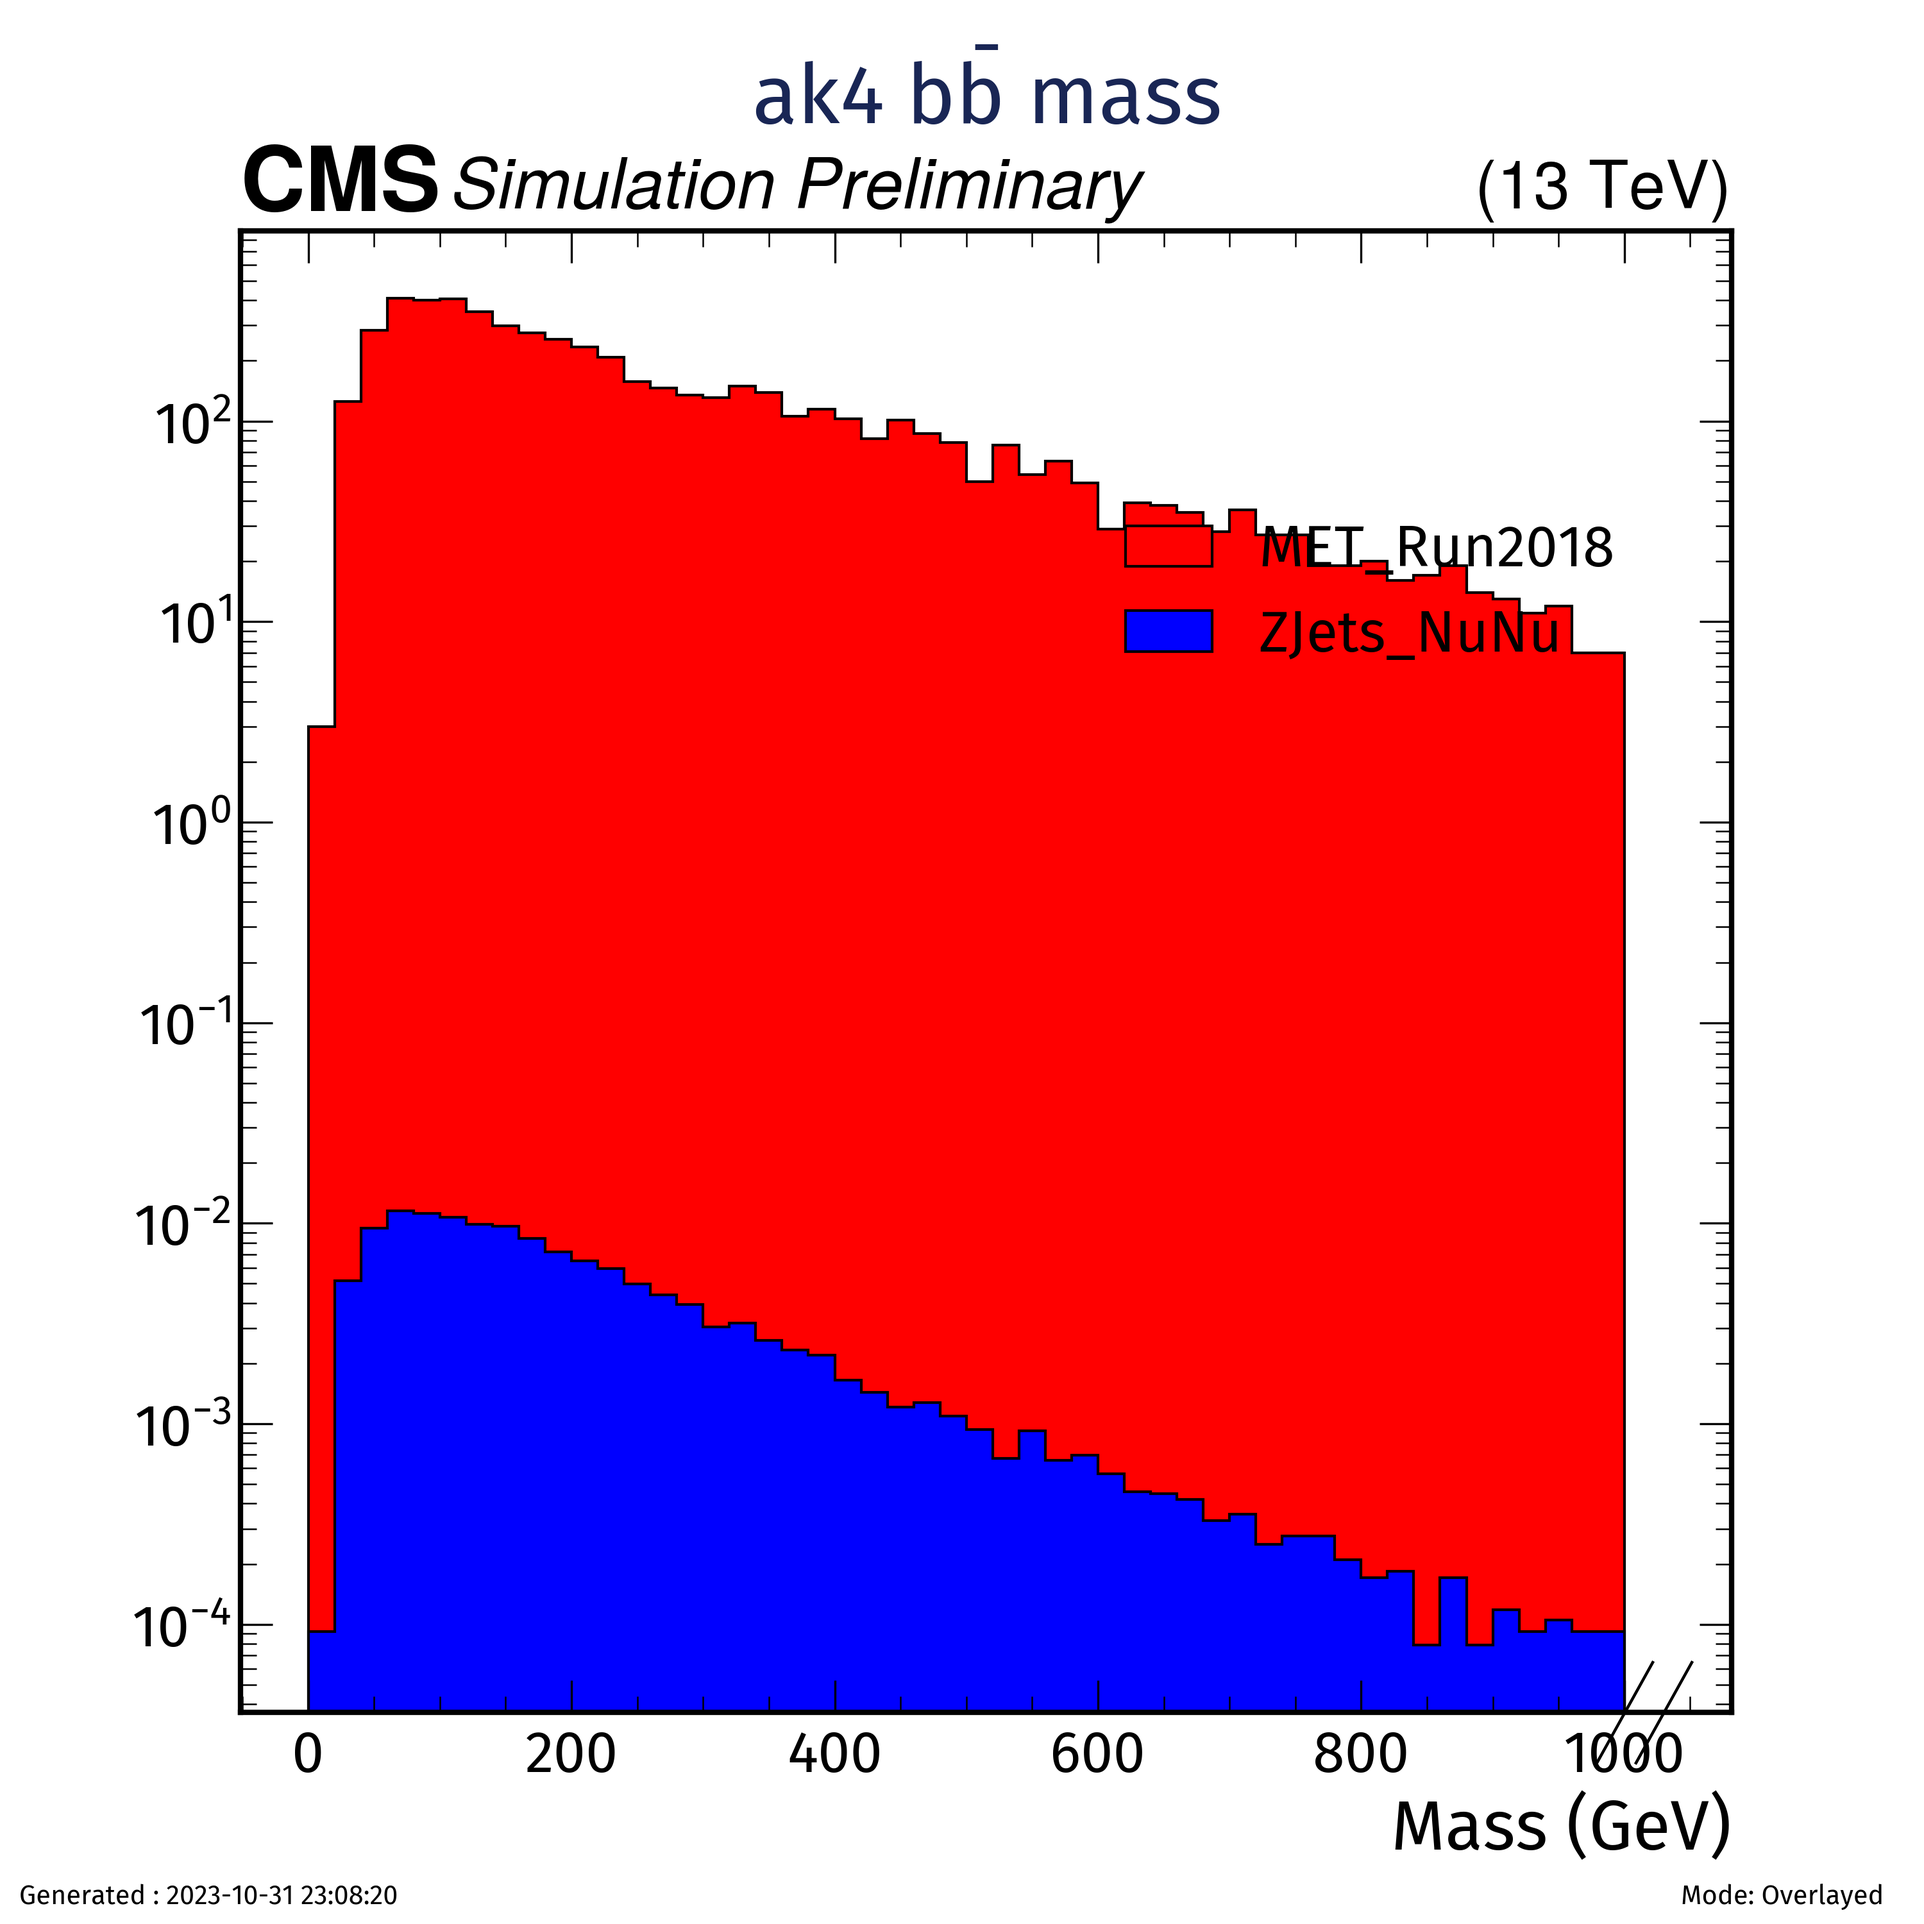
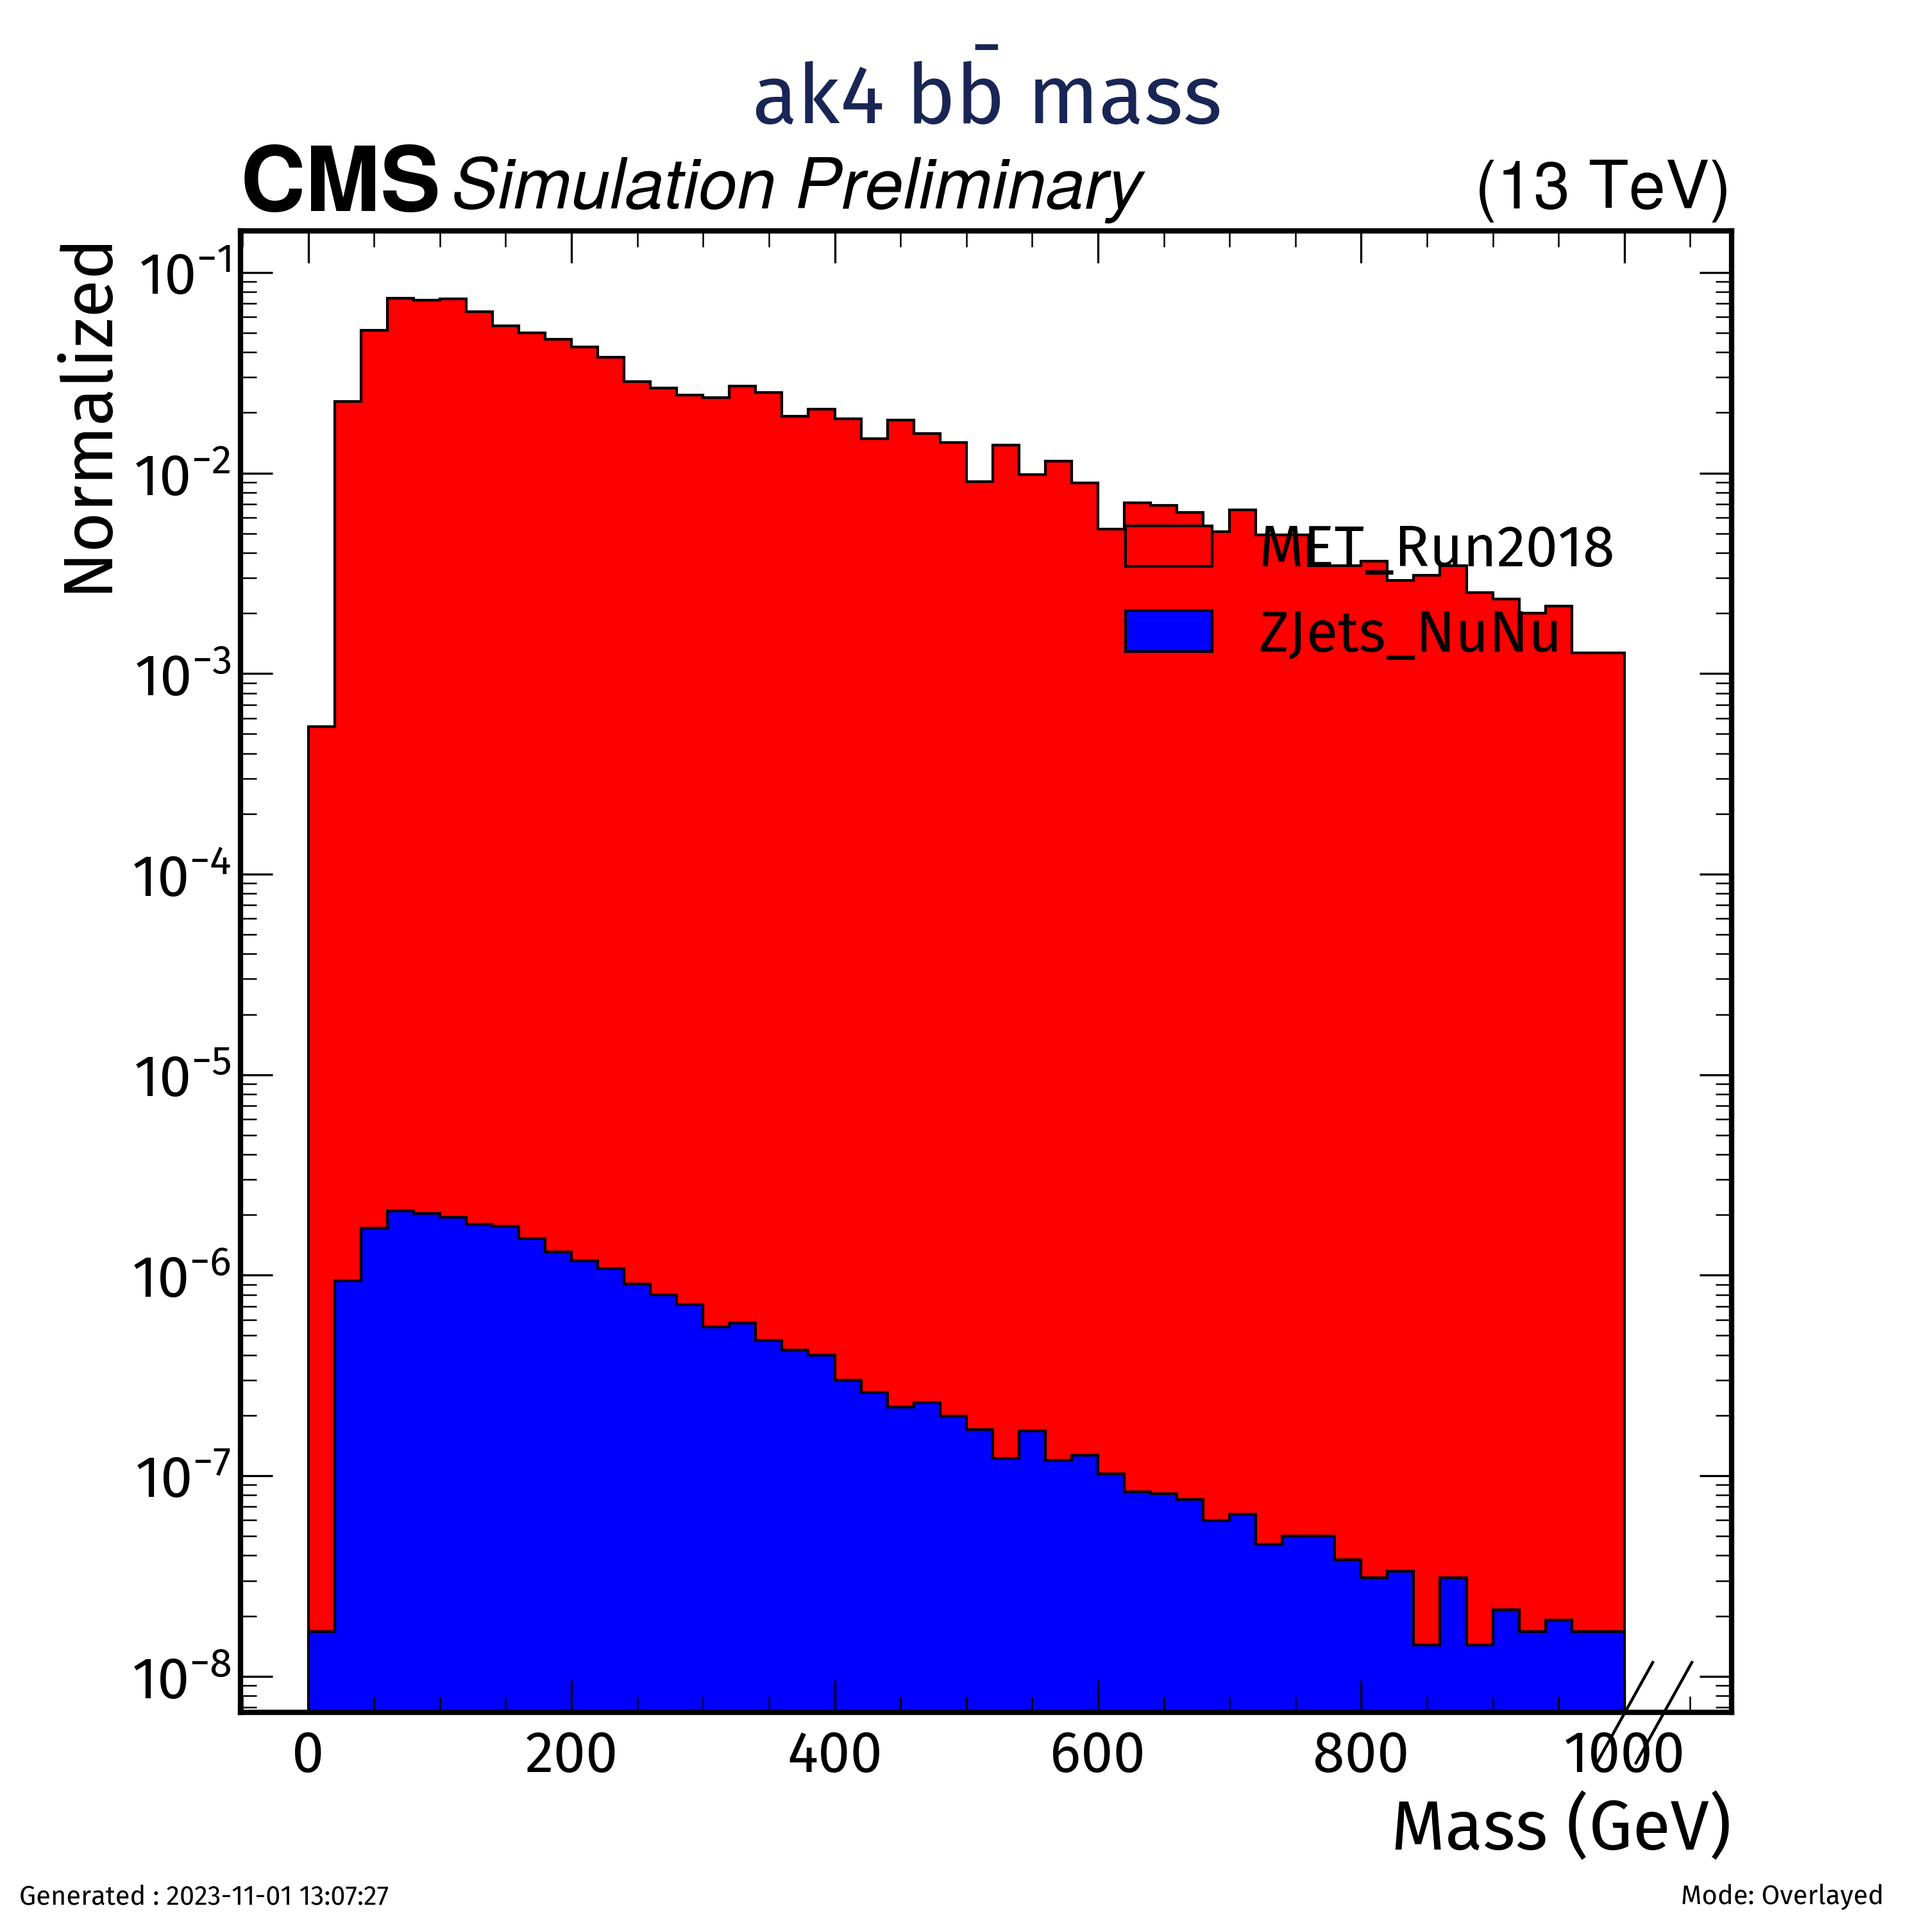
Automated Commit

diff --git a/Backgrounds/plotter_Zjetsnunu.py b/Backgrounds/plotter_Zjetsnunu.py
@@ -149,9 +149,13 @@ def combined_plot_manual(Output,xsec = False):
 
         Zjets_hist = Zjets_hist*weight_factor
 
+    #normalize
+    norm_factor= 1.0 / ( Data_hist.sum() + Zjets_hist.sum())
+
+
     fig, ax = plt.subplots()
     hep.histplot(
-        Data_hist ,
+        norm_factor*Data_hist ,
         histtype='fill',
         color="red",
         #marker=[],
@@ -161,7 +165,7 @@ def combined_plot_manual(Output,xsec = False):
         ax=ax
         )
     hep.histplot(
-        Zjets_hist,
+        norm_factor*Zjets_hist,
         histtype="fill",
         color="blue",
         #marker=[],
@@ -172,7 +176,7 @@ def combined_plot_manual(Output,xsec = False):
         )
 
     hep.cms.label("Preliminary", data= False)
-    #ax.set_ylabel("Normalized with integral")
+    ax.set_ylabel("Normalized")
     ax.set_xlabel("Mass (GeV)")
     ax.set_title(r"ak4 $b \bar{b}$ mass",pad=40, color="#192655")
     plt.yscale("log")
@@ -201,10 +205,13 @@ def combined_plot_manual(Output,xsec = False):
 
         print(weight_factor)
 
+    #normalize
+    norm_factor= 1.0 / ( Data_hist.sum() + Zjets_hist.sum())
+
 
     fig, ax = plt.subplots()
     hep.histplot(
-        Data_hist ,
+        norm_factor*Data_hist ,
         histtype='fill',
         color="red",
         #marker=[],
@@ -214,7 +221,7 @@ def combined_plot_manual(Output,xsec = False):
         ax=ax
         )
     hep.histplot(
-        Zjets_hist,
+        norm_factor*Zjets_hist,
         histtype="fill",
         color="blue",
         #marker=[],
@@ -225,7 +232,7 @@ def combined_plot_manual(Output,xsec = False):
         )
 
     hep.cms.label("Preliminary", data= False)
-    #ax.set_ylabel("Normalized with integral")
+    ax.set_ylabel("Normalized")
     ax.set_xlabel("Mass (GeV)")
     ax.set_title(r"ak4 $b \bar{b}$ mass with MET cut",pad=40, color="#192655")
     plt.yscale("log")

diff --git a/Backgrounds/processor_Zjetsnunu.py b/Backgrounds/processor_Zjetsnunu.py
@@ -21,6 +21,24 @@ import hist
 # Define the processor #
 ########################
 
+
+#Define some selection functions to use in the processor
+def loose_electrons(events):
+    pass
+def tight_electrons(events):
+    pass
+def loose_muons(events):
+    pass
+def tight_muons(events):
+    pass
+def taus(events):
+    pass
+def leptons(events):
+    pass
+def loose_photons(events):
+    pass
+
+#Begin the processor definition
 class SignalSignature(processor.ProcessorABC):
     """
     Flow of Data:
@@ -144,12 +162,18 @@ class SignalSignature(processor.ProcessorABC):
         #MET Selection
         eventsMETcut = events[events.MET.pt > 200 ] #250GeV for boosted category
 
+        # #vetoes
+        # veto = PackedSelection()
+        # veto.add("noLeptons", ak.num(events.Electron) == 0 & ak.num(events.Muon) == 0 )
+        # veto.add("noPhoton", ak.num(events.Photon))
+
+        
         #Object selections
         #ak4Jets
 
         #Apply the basic cuts like pt and eta
         BasicCuts = PackedSelection()
-        BasicCuts.add("pt_cut", ak.all(events.Jet.pt > 25.0 , axis = 1))
+        BasicCuts.add("pt_cut", ak.all(events.Jet.pt > 30.0 , axis = 1))
         BasicCuts.add("eta_cut", ak.all(abs( events.Jet.eta ) < 2.5 , axis = 1))
         events = events[BasicCuts.all("pt_cut", "eta_cut")]
         cutflow["Events_with_good_jets"] = len(events)
